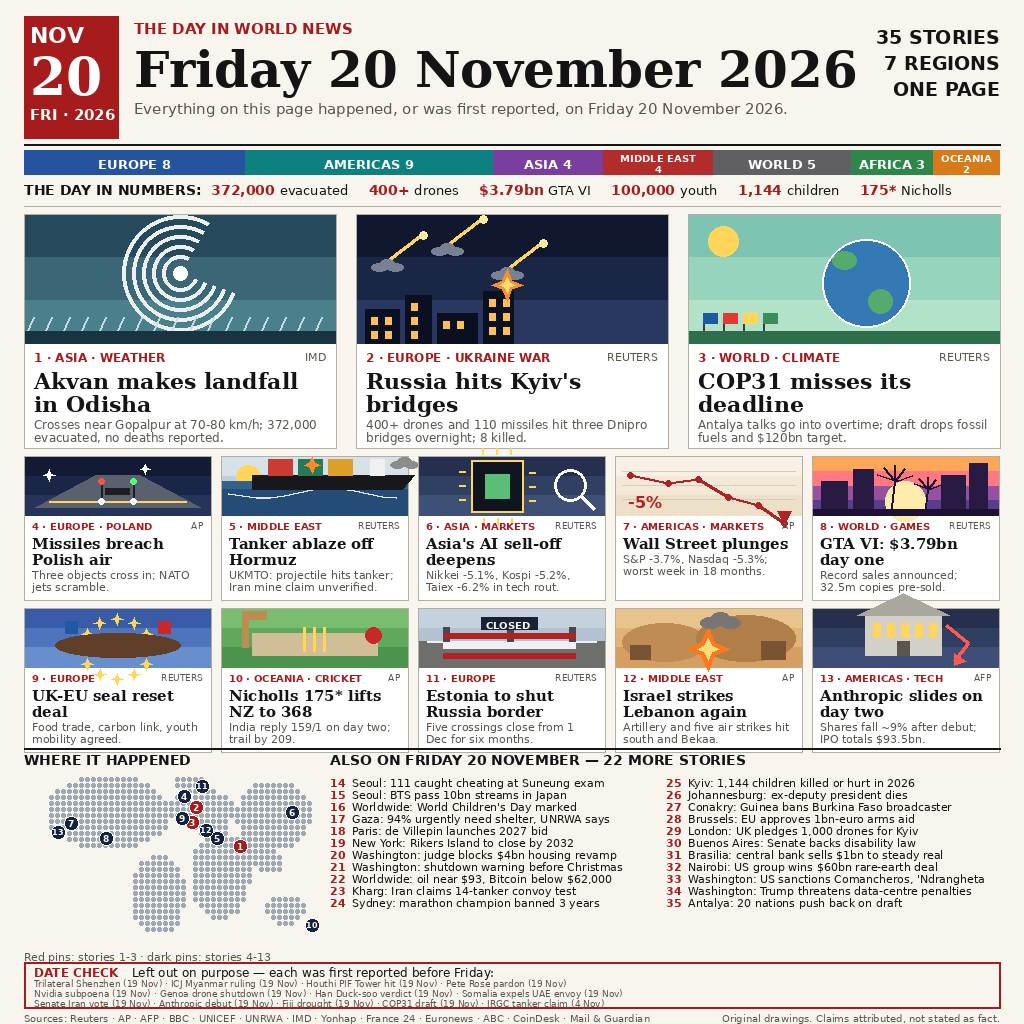
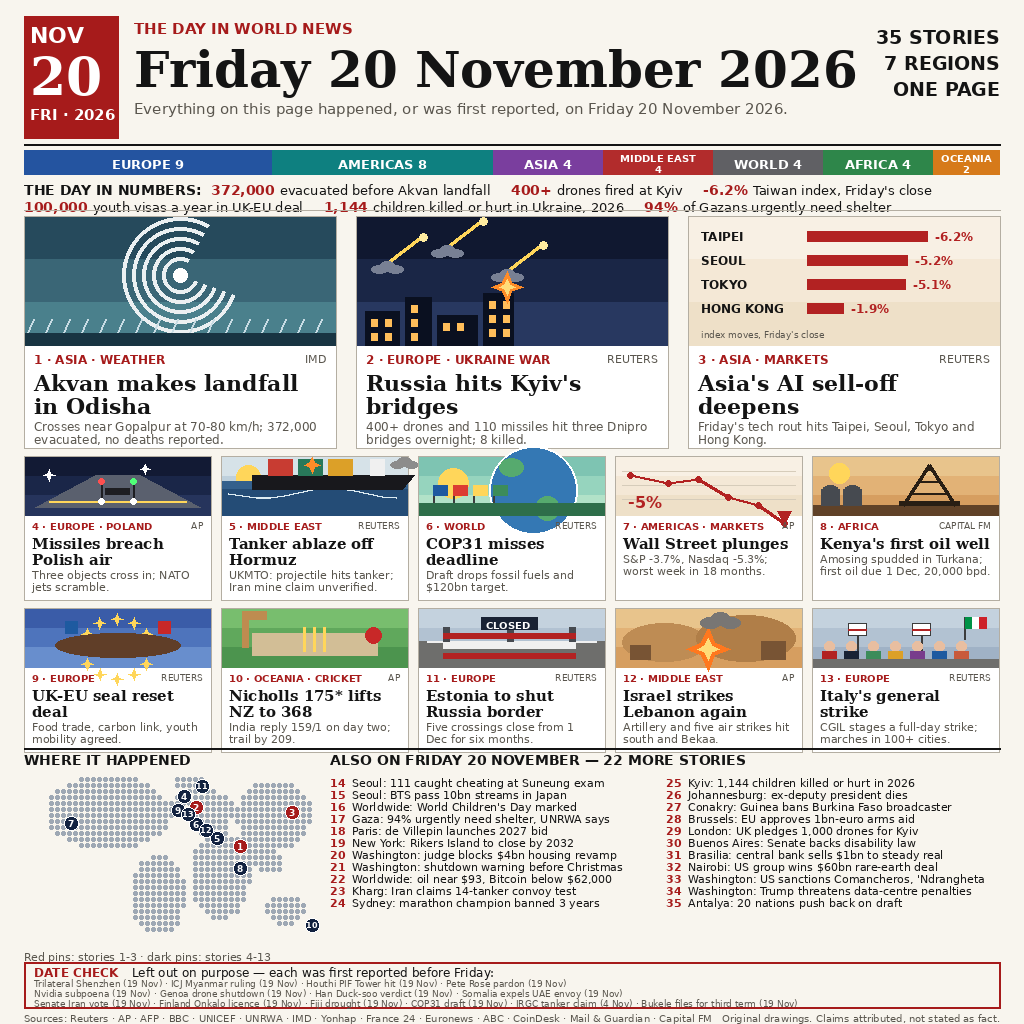
v4: fuller numbers strip, AI sell-off hero with data table, Kenya + Italy secondaries

diff --git a/draw.py b/draw.py
@@ -14,6 +14,24 @@ Finland Onkalo licence, the IRGC "four tankers" claim and the Pete Rose
 pardon were all 19 Nov or earlier and are excluded; COP31 did NOT close
 with a deal on 20 Nov (overtime); the Hormuz mine story is Iran's claim
 only. Drawn with Pillow only; no photos, no copied art.
+
+v4 (21 Nov 2026): three fixes vs v3, everything else identical.
+(1) Numbers strip rewritten as two rows of three, each number now a
+complete mini-story; the bare "175* Nicholls" and "$3.79bn GTA VI"
+are gone. (2) Hero 3 is now Asia's AI sell-off, carrying a data table
+(Taipei -6.2%, Seoul -5.2%, Tokyo -5.1%, Hong Kong -1.9% — all from
+the same AP report); COP31 moves down to secondary slot 6.
+(3) Secondary slots 8 and 13 are now hard world news: Kenya drills
+its first oil well (Amosing spudded in Turkana on Friday 20 Nov,
+Energy CS Wandayi presiding; first oil 1 Dec, 20,000 bpd — reported
+by Capital FM, Business Daily Africa, The Star, KBC and People Daily;
+no Reuters/AP/AFP/BBC/Al Jazeera wire found, so the card cites
+Capital FM) and Italy's general strike (CGIL, Reuters "ROME, Nov 20";
+marches in 100+ cities). GTA VI sales and the Anthropic IPO are gone
+from the page entirely. Bukele's third-term filing was 19 Nov
+(Reuters dateline Nov 19), so it is NOT a story — it joins the DATE
+CHECK exclusions instead (now 14). Regions now EUROPE 9, AMERICAS 8, ASIA 4,
+MIDDLE EAST 4, WORLD 4, AFRICA 4, OCEANIA 2 = 35.
 """
 from PIL import Image, ImageDraw, ImageFont
 import os
@@ -256,15 +274,59 @@ def ill_gaza(d, box):
     for i, c in enumerate([(190, 150, 90), (150, 120, 80)]):
         d.rectangle([x1 - 44 + i * 4, ty - 16 - i * 12, x1 - 22 + i * 4, ty - 2 - i * 12], fill=c)
 
-def ill_gta(d, box):
+def ill_aiselloff(d, box):
+    """Hero 3: a visible data table of Friday's Asian index falls."""
     x0, y0, x1, y1 = box
-    bands(d, box, [(255, 166, 88), (255, 120, 130), (150, 80, 160), (90, 60, 140)])
-    sun(d, (x0 + x1) // 2, y0 + 44, 20, (255, 236, 170))
-    for bx, bw, bh in [(x0 + 8, 26, 34), (x0 + 40, 20, 46), (x0 + 128, 24, 40), (x0 + 156, 18, 52)]:
-        d.rectangle([bx, y1 - bh, bx + bw, y1], fill=(40, 26, 66))
-    palm(d, x0 + 78, y1, 34, (30, 18, 52))
-    palm(d, x0 + 112, y1, 26, (30, 18, 52))
-    d.rectangle([x0, y1 - 6, x1, y1], fill=(30, 18, 52))
+    bands(d, box, [(248, 240, 228), (244, 232, 214), (238, 224, 200)])
+    rows = [("TAIPEI", "-6.2%", 6.2), ("SEOUL", "-5.2%", 5.2),
+            ("TOKYO", "-5.1%", 5.1), ("HONG KONG", "-1.9%", 1.9)]
+    for i, (name, val, v) in enumerate(rows):
+        ry = y0 + 12 + i * 24
+        d.text((x0 + 12, ry), name, font=font(SANS_B, 12), fill=INK)
+        bw = int(120 * v / 6.2)
+        d.rectangle([x0 + 118, ry + 2, x0 + 118 + bw, ry + 12], fill=(178, 34, 34))
+        d.text((x0 + 118 + bw + 8, ry), val, font=font(SANS_B, 12), fill=(178, 34, 34))
+    d.text((x0 + 12, y1 - 16), "index moves, Friday's close", font=font(SANS, 9), fill=MUTED)
+
+def ill_oilrig(d, box):
+    """Kenya: an oil derrick on the Turkana savanna."""
+    x0, y0, x1, y1 = box
+    bands(d, box, [(232, 196, 140), (226, 178, 118), (214, 158, 96)])
+    sun(d, x0 + 26, y0 + 16, 10, (255, 214, 90))
+    d.rectangle([x0, y1 - 10, x1, y1], fill=(96, 66, 40))
+    for tx in (x0 + 8, x0 + 30):
+        d.rectangle([tx, y1 - 26, tx + 18, y1 - 10], fill=(70, 74, 80))
+        d.ellipse([tx + 2, y1 - 30, tx + 16, y1 - 24], fill=(70, 74, 80))
+    bx, top = y1 - 10, y0 + 8
+    cx = (x0 + x1) // 2 + 24
+    d.line([cx - 26, bx, cx, top], fill=(40, 30, 20), width=3)
+    d.line([cx + 26, bx, cx, top], fill=(40, 30, 20), width=3)
+    for fy in (bx - 12, bx - 24, bx - 36):
+        t = (bx - fy) / (bx - top)
+        hw = 26 * (1 - t)
+        d.line([cx - hw, fy, cx + hw, fy], fill=(40, 30, 20), width=2)
+    d.rectangle([cx - 30, bx - 4, cx + 30, bx], fill=(40, 30, 20))
+
+def ill_strike(d, box):
+    """Italy: a strike crowd with placards and the tricolour."""
+    x0, y0, x1, y1 = box
+    bands(d, box, [(196, 210, 222), (178, 194, 210), (160, 178, 198)])
+    fx, fy = x1 - 34, y0 + 8
+    d.line([fx, fy, fx, fy + 22], fill=(60, 60, 60), width=2)
+    for i, c in enumerate([(0, 146, 70), (255, 255, 255), (205, 33, 42)]):
+        d.rectangle([fx + 1 + i * 7, fy, fx + 8 + i * 7, fy + 11], fill=c)
+    for px in (x0 + 44, x0 + 108):
+        d.line([px, y0 + 26, px, y0 + 44], fill=(60, 60, 60), width=2)
+        d.rectangle([px - 9, y0 + 14, px + 9, y0 + 26], fill=(255, 255, 255),
+                    outline=(60, 60, 60), width=1)
+        d.line([px - 9, y0 + 20, px + 9, y0 + 20], fill=(178, 34, 34), width=2)
+    cols = [(178, 34, 34), (24, 34, 52), (60, 140, 90), (220, 160, 40),
+            (120, 60, 140), (30, 90, 160), (200, 90, 60)]
+    for i, c in enumerate(cols):
+        hx = x0 + 16 + i * 22
+        d.ellipse([hx - 5, y1 - 26, hx + 5, y1 - 16], fill=(232, 190, 160))
+        d.rectangle([hx - 7, y1 - 16, hx + 7, y1 - 8], fill=c)
+    d.rectangle([x0, y1 - 8, x1, y1], fill=(110, 110, 108))
 
 def ill_cricket(d, box):
     x0, y0, x1, y1 = box
@@ -305,21 +367,10 @@ def ill_border(d, box):
     d.rectangle([x0 + 62, y0 + 8, x0 + 118, y0 + 20], fill=(24, 34, 52))
     d.text((x0 + 67, y0 + 10), "CLOSED", font=font(SANS_B, 10), fill=(255, 255, 255))
 
-def ill_exchange(d, box):
-    x0, y0, x1, y1 = box
-    bands(d, box, [(38, 48, 78), (48, 62, 98), (62, 78, 118)])
-    d.rectangle([x0 + 52, y1 - 52, x0 + 128, y1 - 12], fill=(210, 208, 200))
-    d.polygon([(x0 + 44, y1 - 52), (x0 + 90, y1 - 74), (x0 + 136, y1 - 52)], fill=(170, 168, 158))
-    for wx in range(x0 + 60, x0 + 122, 14):
-        d.rectangle([wx, y1 - 44, wx + 7, y1 - 30], fill=(255, 214, 90))
-    d.rectangle([x0 + 84, y1 - 26, x0 + 96, y1 - 12], fill=(90, 86, 78))
-    d.line([x1 - 52, y0 + 16, x1 - 30, y0 + 34, x1 - 44, y0 + 52], fill=(255, 90, 80), width=3)
-    d.polygon([(x1 - 44, y0 + 44), (x1 - 44, y0 + 56), (x1 - 32, y0 + 52)], fill=(255, 90, 80))
-
 ILLS = {
-    1: ill_akvan, 2: ill_kyiv, 3: ill_cop31, 4: ill_genoa, 5: ill_tanker,
-    6: ill_nvidia, 7: ill_chart, 8: ill_gta, 9: ill_talks, 10: ill_cricket,
-    11: ill_border, 12: ill_lebanon, 13: ill_exchange,
+    1: ill_akvan, 2: ill_kyiv, 3: ill_aiselloff, 4: ill_genoa, 5: ill_tanker,
+    6: ill_cop31, 7: ill_chart, 8: ill_oilrig, 9: ill_talks, 10: ill_cricket,
+    11: ill_border, 12: ill_lebanon, 13: ill_strike,
 }
 
 # ---------- story data ----------
@@ -331,9 +382,9 @@ HEROES = [
     (2, "EUROPE", "UKRAINE WAR", "REUTERS",
      "Russia hits Kyiv's bridges",
      "400+ drones and 110 missiles hit three Dnipro bridges overnight; 8 killed."),
-    (3, "WORLD", "CLIMATE", "REUTERS",
-     "COP31 misses its deadline",
-     "Antalya talks go into overtime; draft drops fossil fuels and $120bn target."),
+    (3, "ASIA", "MARKETS", "REUTERS",
+     "Asia's AI sell-off deepens",
+     "Friday's tech rout hits Taipei, Seoul, Tokyo and Hong Kong."),
 ]
 SECONDARY = [
     (4, "EUROPE", "POLAND", "AP",
@@ -342,15 +393,15 @@ SECONDARY = [
     (5, "MIDDLE EAST", "GULF", "REUTERS",
      "Tanker ablaze off Hormuz",
      "UKMTO: projectile hits tanker; Iran mine claim unverified."),
-    (6, "ASIA", "MARKETS", "REUTERS",
-     "Asia's AI sell-off deepens",
-     "Nikkei -5.1%, Kospi -5.2%, Taiex -6.2% in tech rout."),
+    (6, "WORLD", "CLIMATE", "REUTERS",
+     "COP31 misses deadline",
+     "Draft drops fossil fuels and $120bn target."),
     (7, "AMERICAS", "MARKETS", "AP",
      "Wall Street plunges",
      "S&P -3.7%, Nasdaq -5.3%; worst week in 18 months."),
-    (8, "WORLD", "GAMES", "REUTERS",
-     "GTA VI: $3.79bn day one",
-     "Record sales announced; 32.5m copies pre-sold."),
+    (8, "AFRICA", "ENERGY", "CAPITAL FM",
+     "Kenya's first oil well",
+     "Amosing spudded in Turkana; first oil due 1 Dec, 20,000 bpd."),
     (9, "EUROPE", "BREXIT", "REUTERS",
      "UK-EU seal reset deal",
      "Food trade, carbon link, youth mobility agreed."),
@@ -363,9 +414,9 @@ SECONDARY = [
     (12, "MIDDLE EAST", "LEBANON", "AP",
      "Israel strikes Lebanon again",
      "Artillery and five air strikes hit south and Bekaa."),
-    (13, "AMERICAS", "TECH", "AFP",
-     "Anthropic slides on day two",
-     "Shares fall ~9% after debut; IPO totals $93.5bn."),
+    (13, "EUROPE", "STRIKE", "REUTERS",
+     "Italy's general strike",
+     "CGIL stages a full-day strike; marches in 100+ cities."),
 ]
 LISTED = [
     "Seoul: 111 caught cheating at Suneung exam",
@@ -391,18 +442,22 @@ LISTED = [
     "Washington: Trump threatens data-centre penalties",
     "Antalya: 20 nations push back on draft",
 ]
-REGIONS = [("EUROPE", 8, (36, 84, 160)), ("AMERICAS", 9, (14, 128, 128)),
+REGIONS = [("EUROPE", 9, (36, 84, 160)), ("AMERICAS", 8, (14, 128, 128)),
            ("ASIA", 4, (122, 62, 158)), ("MIDDLE EAST", 4, (178, 44, 44)),
-           ("WORLD", 5, (96, 96, 100)), ("AFRICA", 3, (46, 134, 74)),
+           ("WORLD", 4, (96, 96, 100)), ("AFRICA", 4, (46, 134, 74)),
            ("OCEANIA", 2, (214, 122, 26))]
-NUMBERS = [("372,000", "evacuated"), ("400+", "drones"),
-           ("$3.79bn", "GTA VI"), ("100,000", "youth"),
-           ("1,144", "children"), ("175*", "Nicholls")]
+# numbers strip, two rows of three: each number tells a complete mini-story
+NUMBERS_ROW1 = [("372,000", "evacuated before Akvan landfall"),
+                ("400+", "drones fired at Kyiv"),
+                ("-6.2%", "Taiwan index, Friday's close")]
+NUMBERS_ROW2 = [("100,000", "youth visas a year in UK-EU deal"),
+                ("1,144", "children killed or hurt in Ukraine, 2026"),
+                ("94%", "of Gazans urgently need shelter")]
 # map pins: (num, x, y) in map coords; red for 1-3, navy for 4-13
-PINS = [(1, 240, 846), (2, 196, 807), (3, 192, 822), (4, 184, 796),
-        (5, 217, 838), (6, 292, 812), (7, 71, 823), (8, 106, 838),
-        (9, 182, 818), (10, 312, 925), (11, 202, 786), (12, 206, 830),
-        (13, 58, 832)]
+PINS = [(1, 240, 846), (2, 196, 807), (3, 292, 812), (4, 184, 796),
+        (5, 217, 838), (6, 196, 824), (7, 71, 823), (8, 240, 868),
+        (9, 178, 810), (10, 312, 925), (11, 202, 786), (12, 206, 830),
+        (13, 188, 814)]
 LAND = [  # ellipses (x0, y0, x1, y1) forming a coarse dotted world map
     (45, 775, 170, 850), (175, 772, 200, 790), (130, 855, 185, 935),
     (185, 790, 235, 825), (190, 830, 250, 920), (235, 780, 310, 850),
@@ -464,22 +519,32 @@ def main():
             d.text((x + (w - d.textlength(str(n), font=f2)) / 2, y0 + 13), str(n), font=f2, fill=(255, 255, 255))
         x += w
 
-    # ---- numbers strip ----
+    # ---- numbers strip: two rows of three, each number a full mini-story ----
     y = 182
     d.text((M, y), "THE DAY IN NUMBERS:", font=font(SANS_B, 14), fill=INK)
     nx = M + d.textlength("THE DAY IN NUMBERS:  ", font=font(SANS_B, 14))
-    for num, lab in NUMBERS:
+    for num, lab in NUMBERS_ROW1:
         f1, f2 = font(SANS_B, 14), font(SANS, 13)
         d.text((nx, y), num, font=f1, fill=RED)
         nx += d.textlength(num + " ", font=f1)
         d.text((nx, y), lab, font=f2, fill=INK)
         nx += d.textlength(lab + "  ·  ", font=f2)
     if nx > X1:
-        print(f"OVERFLOW: numbers strip ends at {nx}, page edge {X1}")
-    d.line([M, 206, X1, 206], fill=RULE, width=1)
+        print(f"OVERFLOW: numbers strip row 1 ends at {nx}, page edge {X1}")
+    nx = M
+    y2 = y + 17
+    for num, lab in NUMBERS_ROW2:
+        f1, f2 = font(SANS_B, 14), font(SANS, 13)
+        d.text((nx, y2), num, font=f1, fill=RED)
+        nx += d.textlength(num + " ", font=f1)
+        d.text((nx, y2), lab, font=f2, fill=INK)
+        nx += d.textlength(lab + "  ·  ", font=f2)
+    if nx > X1:
+        print(f"OVERFLOW: numbers strip row 2 ends at {nx}, page edge {X1}")
+    d.line([M, 210, X1, 210], fill=RULE, width=1)
 
     # ---- hero stories ----
-    hy, hh = 214, 234
+    hy, hh = 216, 232
     hw, gap = 312, 20
     for i, (num, region, topic, src, head, summ) in enumerate(HEROES):
         x = M + i * (hw + gap)
@@ -553,10 +618,10 @@ def main():
            "Nvidia subpoena (19 Nov) · Genoa drone shutdown (19 Nov) · Han Duck-soo verdict (19 Nov) · Somalia expels UAE envoy (19 Nov)",
            font=font(SANS, 9), fill=MUTED)
     d.text((M + 10, by0 + 36),
-           "Senate Iran vote (19 Nov) · Anthropic debut (19 Nov) · Fiji drought (19 Nov) · COP31 draft (19 Nov) · IRGC tanker claim (4 Nov)",
+           "Senate Iran vote (19 Nov) · Finland Onkalo licence (19 Nov) · Fiji drought (19 Nov) · COP31 draft (19 Nov) · IRGC tanker claim (4 Nov) · Bukele files for third term (19 Nov)",
            font=font(SANS, 9), fill=MUTED)
     # ---- footer ----
-    d.text((M, 1012), "Sources: Reuters · AP · AFP · BBC · UNICEF · UNRWA · IMD · Yonhap · France 24 · Euronews · ABC · CoinDesk · Mail & Guardian",
+    d.text((M, 1012), "Sources: Reuters · AP · AFP · BBC · UNICEF · UNRWA · IMD · Yonhap · France 24 · Euronews · ABC · CoinDesk · Mail & Guardian · Capital FM",
            font=font(SANS, 10), fill=MUTED)
     d.text((X1 - d.textlength("Original drawings. Claims attributed, not stated as fact.", font=font(SANS, 10)), 1012),
            "Original drawings. Claims attributed, not stated as fact.", font=font(SANS, 10), fill=MUTED)

diff --git a/README.md b/README.md
@@ -4,7 +4,15 @@
 [![rank](https://make.fun/badge/news-image-20261120/sikeonk123-debug/world-news-20-november-2026/rank.svg)](https://make.fun/bounty/news-image-20261120/leaderboard?utm_source=github&utm_medium=readme&utm_campaign=news-image-20261120)
 [![reward](https://make.fun/badge/news-image-20261120/sikeonk123-debug/world-news-20-november-2026/reward.svg)](https://make.fun/bounty/news-image-20261120?utm_source=github&utm_medium=readme&utm_campaign=news-image-20261120)
 
-A one-page front page summing up Friday 20 November 2026's world news in a single image, built to the winning pattern of the 18 November contest (newspaper front page, 35 stories across 7 regions): Cyclone Akvan's landfall in Odisha, Russia's missile strike on Kyiv's bridges, COP31 missing its deadline in Antalya, plus 10 more illustrated stories, a pinned world map, a 22-story list, a numbers strip and a DATE CHECK box naming the near-miss stories left out. Every story was verified as having happened, or first been reported, on Friday 20 November 2026. `entry.png` is the image; `draw.py` (Python 3 + Pillow) redraws it from the story list; `main.ts` copies `entry.png` to the output directory.
+A one-page front page summing up Friday 20 November 2026's world news in a single image, built to the winning pattern of the 18 November contest (newspaper front page, 35 stories across 7 regions): Cyclone Akvan's landfall in Odisha, Russia's missile strike on Kyiv's bridges, Asia's AI sell-off (with a data table of Friday's index falls), plus 10 more illustrated stories, a pinned world map, a 22-story list, a numbers strip and a DATE CHECK box naming the near-miss stories left out. Every story was verified as having happened, or first been reported, on Friday 20 November 2026. `entry.png` is the image; `draw.py` (Python 3 + Pillow) redraws it from the story list; `main.ts` copies `entry.png` to the output directory.
+
+## v4 (21 Nov 2026) — what changed vs v3
+
+Three fixes, everything else identical (35 stories, 7 regions, heroes 1–2 unchanged, same map, same layout):
+
+1. **Numbers strip** — two rows of three; every number now tells a complete mini-story (372,000 evacuated before Akvan landfall; 400+ drones fired at Kyiv; −6.2% Taiwan index, Friday's close; 100,000 youth visas a year in the UK–EU deal; 1,144 children killed or hurt in Ukraine, 2026; 94% of Gazans urgently need shelter). The bare "175* Nicholls" and "$3.79bn GTA VI" are gone.
+2. **Hero 3** — Asia's AI sell-off replaces COP31, carrying a visible data table (Taipei −6.2%, Seoul −5.2%, Tokyo −5.1%, Hong Kong −1.9%, all from the same AP report). COP31 moves down to secondary slot 6.
+3. **Secondary lineup** — the GTA VI sales and Anthropic IPO stories are replaced with hard world news verified as 20 November events: Kenya drills its first oil well (Amosing spudded in Turkana, first oil 1 Dec, 20,000 bpd; cited to Capital FM — no Reuters/AP/AFP/BBC/Al Jazeera wire found for the spudding) and Italy's general strike (CGIL, Reuters "ROME, Nov 20", marches in 100+ cities). Bukele's third-term filing was 19 November (Reuters dateline Nov 19), so it is not a story — it joins the DATE CHECK exclusions instead (now 14). Regions: EUROPE 9, AMERICAS 8, ASIA 4, MIDDLE EAST 4, WORLD 4, AFRICA 4, OCEANIA 2.
 
 ## Run it
 
